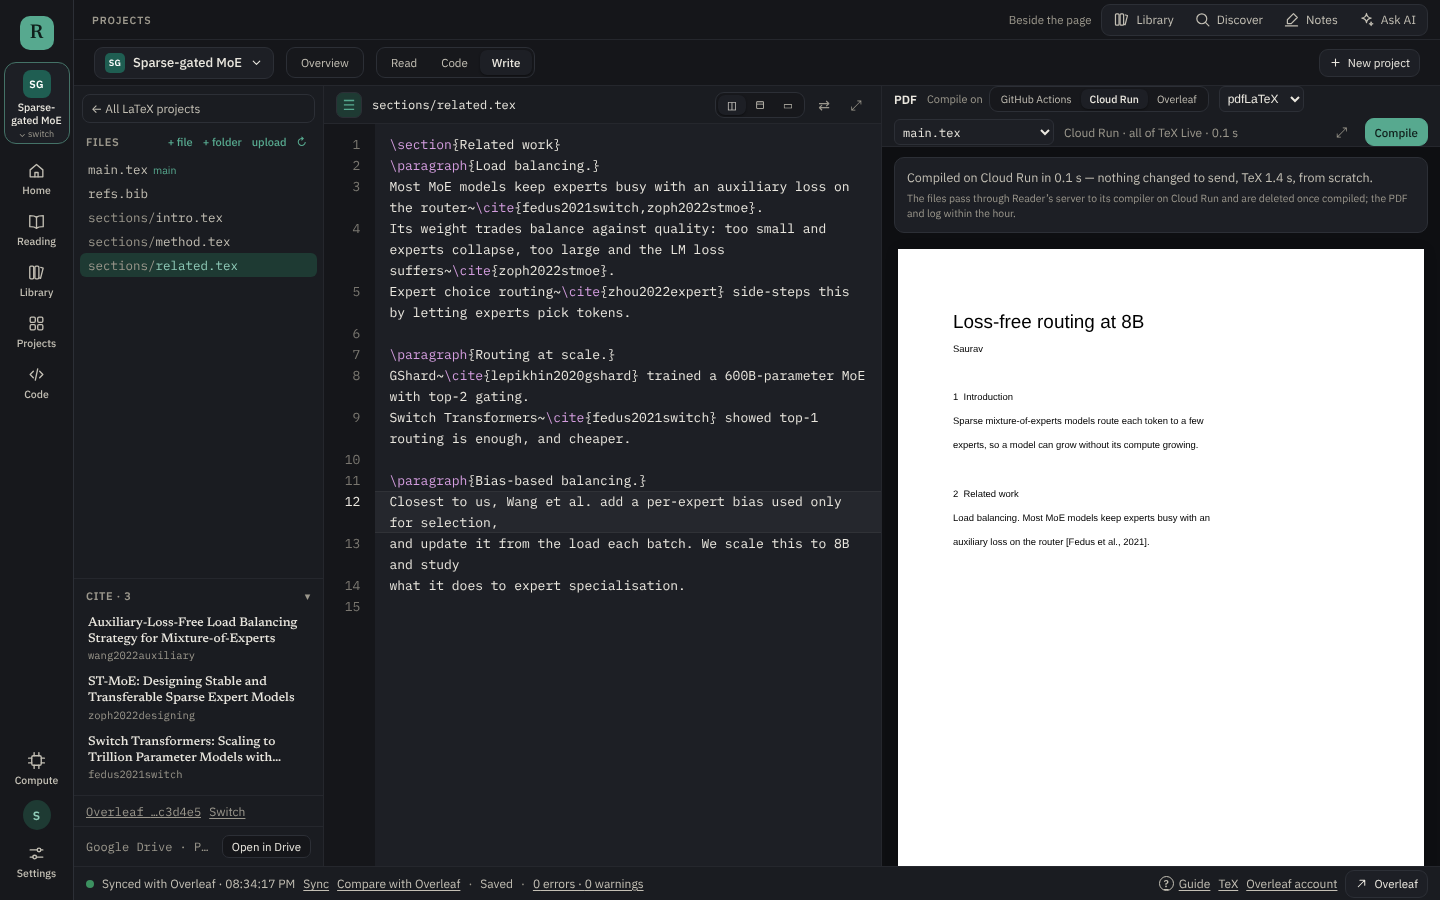
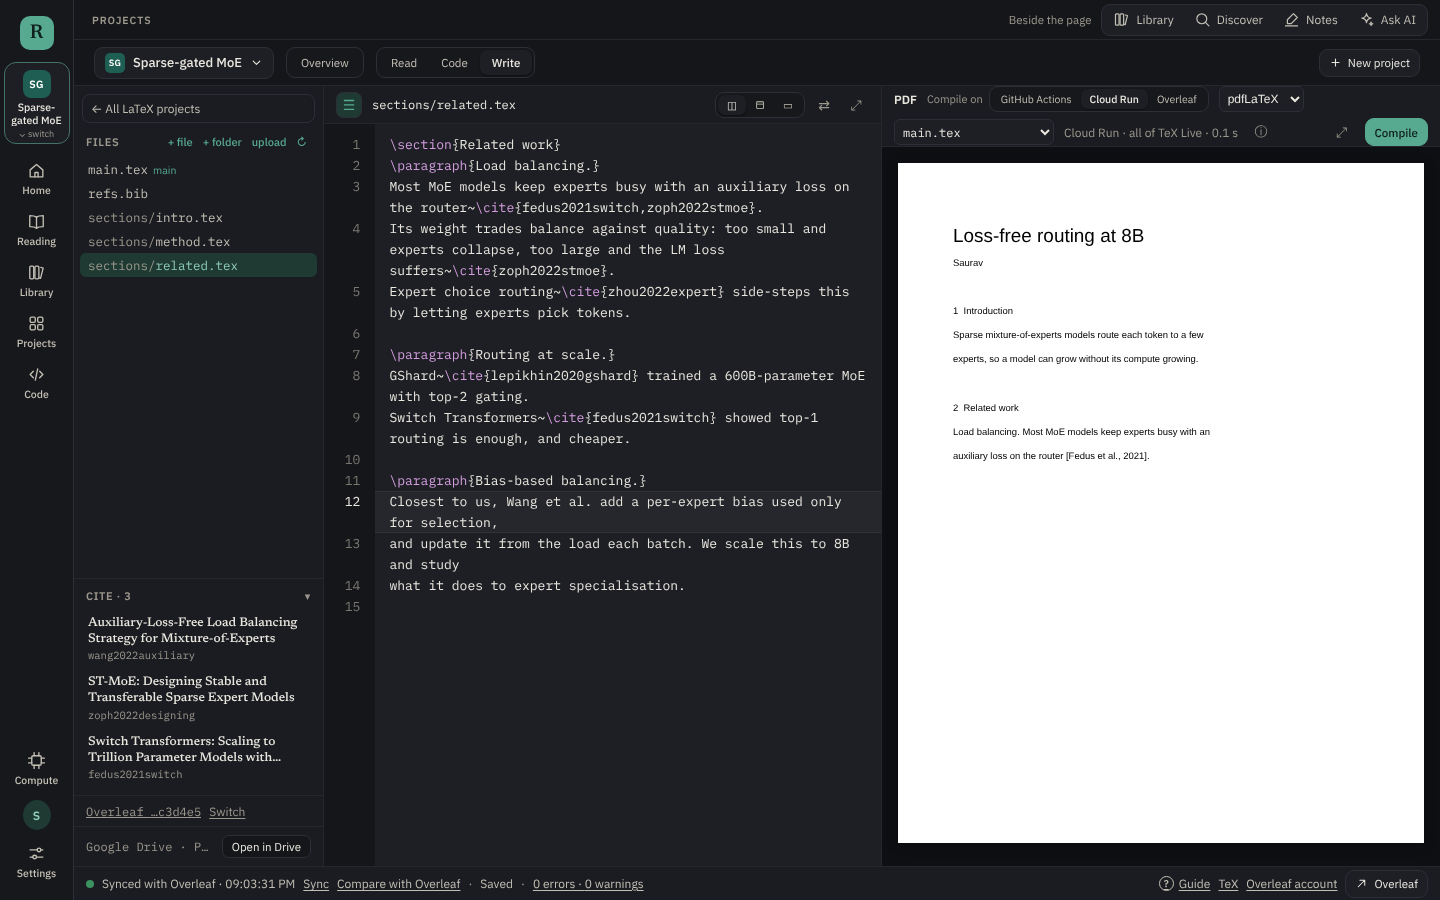
Write tab: the cloud compile's note out of the PDF's way
A thin line while it compiles (spinner, elapsed) or when it failed (Try
again, × to hide); nothing over the PDF once it compiled. What the last
compile did and where the files go open from an ⓘ beside the engine and
time, closed with ×, remembered on this device.

The flow smoke test checks it, and loads its seeding page without waiting
for the network to go quiet (it could hang there).

Claude-Session: https://claude.ai/code/session_01EK97U4HuEDfpZxHH8nzPX2

diff --git a/src/components/Write.tsx b/src/components/Write.tsx
@@ -828,11 +828,15 @@ function useElapsed(since: number | undefined, running: boolean): string {
 /**
  * The PDF pane's line about compiling in the cloud: Reader's own compiler —
  * Cloud Run, or GitHub Actions where the site has no Cloud Run — so there is
- * nothing to set up; how a compile is going.
+ * nothing to set up. Kept out of the PDF's way: a thin line only while it
+ * compiles or when it failed; what a compile did (and where the files go)
+ * only when asked for, from the ⓘ beside the engine, closed with ×.
  */
-function GithubCompilePanel({ state, on, onCompile }: { state: GithubState; on: 'cloudrun' | 'github'; onCompile: () => void }) {
+function GithubCompilePanel({ state, on, onCompile, open, onClose }: { state: GithubState; on: 'cloudrun' | 'github'; onCompile: () => void; /** The details asked for (ⓘ). */ open: boolean; onClose: () => void }) {
   const running = state.phase === 'sending' || state.phase === 'queued' || state.phase === 'compiling';
   const elapsed = useElapsed(state.startedAt, running);
+  // A failure put away stays away until the next one.
+  const [dismissed, setDismissed] = useState<number | undefined>(undefined);
   const where = (state.on ?? on) === 'github' ? 'on GitHub' : 'on Cloud Run';
   const said =
     state.phase === 'sending'
@@ -840,7 +844,7 @@ function GithubCompilePanel({ state, on, onCompile }: { state: GithubState; on: 
       : state.phase === 'queued'
         ? 'Waiting for GitHub to start…'
         : state.phase === 'compiling'
-          ? `Compiling ${where} with all of TeX Live…`
+          ? `Compiling ${where}…`
           : state.phase === 'done'
             ? state.on === 'cloudrun' && state.finishedAt && state.startedAt
               ? `Compiled on Cloud Run in ${((state.finishedAt - state.startedAt) / 1000).toFixed(1)} s — ${state.sent === 0 ? 'nothing changed to send' : `${state.sent} changed file${state.sent === 1 ? '' : 's'} sent`}, TeX ${(state.texSeconds ?? 0).toFixed(1)} s${state.kept ? '' : ', from scratch'}.`
@@ -850,17 +854,40 @@ function GithubCompilePanel({ state, on, onCompile }: { state: GithubState; on: 
               : on === 'github'
                 ? 'Press ⌘↵ or Compile: GitHub Actions makes the PDF with all of TeX Live, and it comes back here in a minute or two. Nothing to set up.'
                 : `Cloud Run makes the PDF with all of TeX Live as you type, as Overleaf does (⌘↵ or Compile at any time); only what changed is sent. Nothing to set up.${state.warming ? ' Starting the compiler…' : ''}`;
-  return (
-    <div className={`wr-ghc is-line${state.phase === 'failed' ? ' is-bad' : ''}`}>
-      <span>
-        {running ? <span className="spinner" /> : null} {said} {running && elapsed ? <span className="mono">{elapsed}</span> : null}
-      </span>
-      {state.phase === 'failed' ? (
+  const failed = state.phase === 'failed' && dismissed !== state.startedAt;
+  if (running && !open)
+    return (
+      <div className="wr-ghs" role="status">
+        <span className="spinner" /> <span>{said}</span> {elapsed ? <span className="mono wr-quiet">{elapsed}</span> : null}
+      </div>
+    );
+  if (failed && !open)
+    return (
+      <div className="wr-ghs is-bad" role="alert">
+        <span className="wr-ghs-text" title={said}>{said}</span>
         <button type="button" className="link-btn" onClick={onCompile}>
           Try again
         </button>
-      ) : null}
+        <button type="button" className="wr-ghs-x" onClick={() => setDismissed(state.startedAt)} aria-label="Hide" title="Hide">
+          ×
+        </button>
+      </div>
+    );
+  if (!open) return null;
+  return (
+    <div className={`wr-ghc${state.phase === 'failed' ? ' is-bad' : ''}`} role="note">
+      <span>
+        {running ? <span className="spinner" /> : null} {said} {running && elapsed ? <span className="mono">{elapsed}</span> : null}
+        {state.phase === 'failed' ? (
+          <button type="button" className="link-btn" onClick={onCompile}>
+            Try again
+          </button>
+        ) : null}
+      </span>
       <small>{(state.on ?? on) === 'github' ? 'The files pass through Reader’s server and a GitHub runner to be compiled; they are never put in a repository, and are deleted within the hour.' : 'The files pass through Reader’s server to its compiler on Cloud Run and are deleted once compiled; the PDF and log within the hour.'}</small>
+      <button type="button" className="wr-ghs-x" onClick={onClose} aria-label="Close the compile details" title="Close">
+        ×
+      </button>
     </div>
   );
 }
@@ -2579,6 +2606,22 @@ function WriteDesk({ project, here, folder, store, rootStore, scope, owner = '',
   const placeTimer = useRef<number>();
   // Each LaTeX project its own Overleaf project: this one linked by itself, from the paper's whole folder.
   const [connecting, setConnecting] = useState(connectOverleaf);
+  // The cloud compile's details over the PDF: only when asked for (ⓘ), remembered on this device.
+  const [compileInfo, setCompileInfo] = useState(() => {
+    try {
+      return localStorage.getItem('reader.write.compileInfo') === '1';
+    } catch {
+      return false;
+    }
+  });
+  const showCompileInfo = (show: boolean) => {
+    setCompileInfo(show);
+    try {
+      localStorage.setItem('reader.write.compileInfo', show ? '1' : '0');
+    } catch {
+      // only a convenience
+    }
+  };
   // Linked to Overleaf with no account to sync with: a nudge, the account's form only when asked for (or the paper card asked).
   const [accountOpen, setAccountOpen] = useState(connectOverleaf);
   const canConnect = inDrive && !git && Boolean(rootStore);
@@ -2892,6 +2935,11 @@ function WriteDesk({ project, here, folder, store, rootStore, scope, owner = '',
             {texLive ? `TeX Live ${texLive}` : compiled.engine} · {(compiled.ms / 1000).toFixed(1)} s
           </span>
         ) : null}
+        {options.pdf === 'github' || options.pdf === 'cloudrun' ? (
+          <button type="button" className="wr-icon wr-info" aria-pressed={compileInfo} onClick={() => showCompileInfo(!compileInfo)} title={compileInfo ? 'Hide the compile details' : 'What the last compile did, and where the files go'} aria-label="Compile details">
+            ⓘ
+          </button>
+        ) : null}
         <span className="wr-sp" />
         <button type="button" className="wr-icon" aria-pressed={big === 'pdf'} onClick={() => setBig(big === 'pdf' ? null : 'pdf')} title={big === 'pdf' ? 'Back to both panes' : 'The PDF alone, filling the space'} aria-label={big === 'pdf' ? 'Back to both panes' : 'Expand the PDF'}>
           {big === 'pdf' ? '⤡' : '⤢'}
@@ -2907,7 +2955,7 @@ function WriteDesk({ project, here, folder, store, rootStore, scope, owner = '',
         ) : null}
       </div>
       {options.pdf === 'github' || options.pdf === 'cloudrun' ? (
-        <GithubCompilePanel state={gh} on={options.pdf} onCompile={options.pdf === 'cloudrun' ? () => void saveNow().then(() => compileOnCloudRun(true)) : recompile} />
+        <GithubCompilePanel state={gh} on={options.pdf} open={compileInfo} onClose={() => showCompileInfo(false)} onCompile={options.pdf === 'cloudrun' ? () => void saveNow().then(() => compileOnCloudRun(true)) : recompile} />
       ) : null}
       {noTex && options.pdf === 'here' ? (
         <div className="wr-pad">

diff --git a/src/styles.css b/src/styles.css
@@ -7767,3 +7767,12 @@ body.is-dragging-y, body.is-dragging-y * { cursor: row-resize !important; user-s
 .wr-step-body { display: flex; flex-direction: column; gap: 8px; min-width: 0; }
 .wr-step-title { font: 600 13px var(--sans); }
 .wr-step-why { margin: 0; font-size: 12.5px; color: var(--muted); }
+/* The cloud compile, out of the PDF's way: a thin line while compiling or failed; details only when asked. */
+.wr-ghs { display: flex; align-items: center; gap: 8px; margin: 6px 12px 0; padding: 3px 4px 3px 10px; min-height: 26px; border-radius: 7px; background: var(--panel); font-size: 12px; color: var(--ink-2); }
+.wr-ghs.is-bad { background: color-mix(in srgb, var(--danger) 12%, transparent); color: var(--ink); }
+.wr-ghs-text { flex: 1; min-width: 0; overflow: hidden; text-overflow: ellipsis; white-space: nowrap; }
+.wr-ghs-x { flex: none; width: 22px; height: 22px; border: 0; border-radius: 5px; background: transparent; color: var(--muted); font-size: 15px; line-height: 1; cursor: pointer; }
+.wr-ghs-x:hover { background: rgba(127, 127, 127, 0.14); color: var(--ink); }
+.wr-ghc { position: relative; padding-right: 34px; }
+.wr-ghc > .wr-ghs-x { position: absolute; top: 6px; right: 6px; }
+.wr-info { font-size: 13px; }
